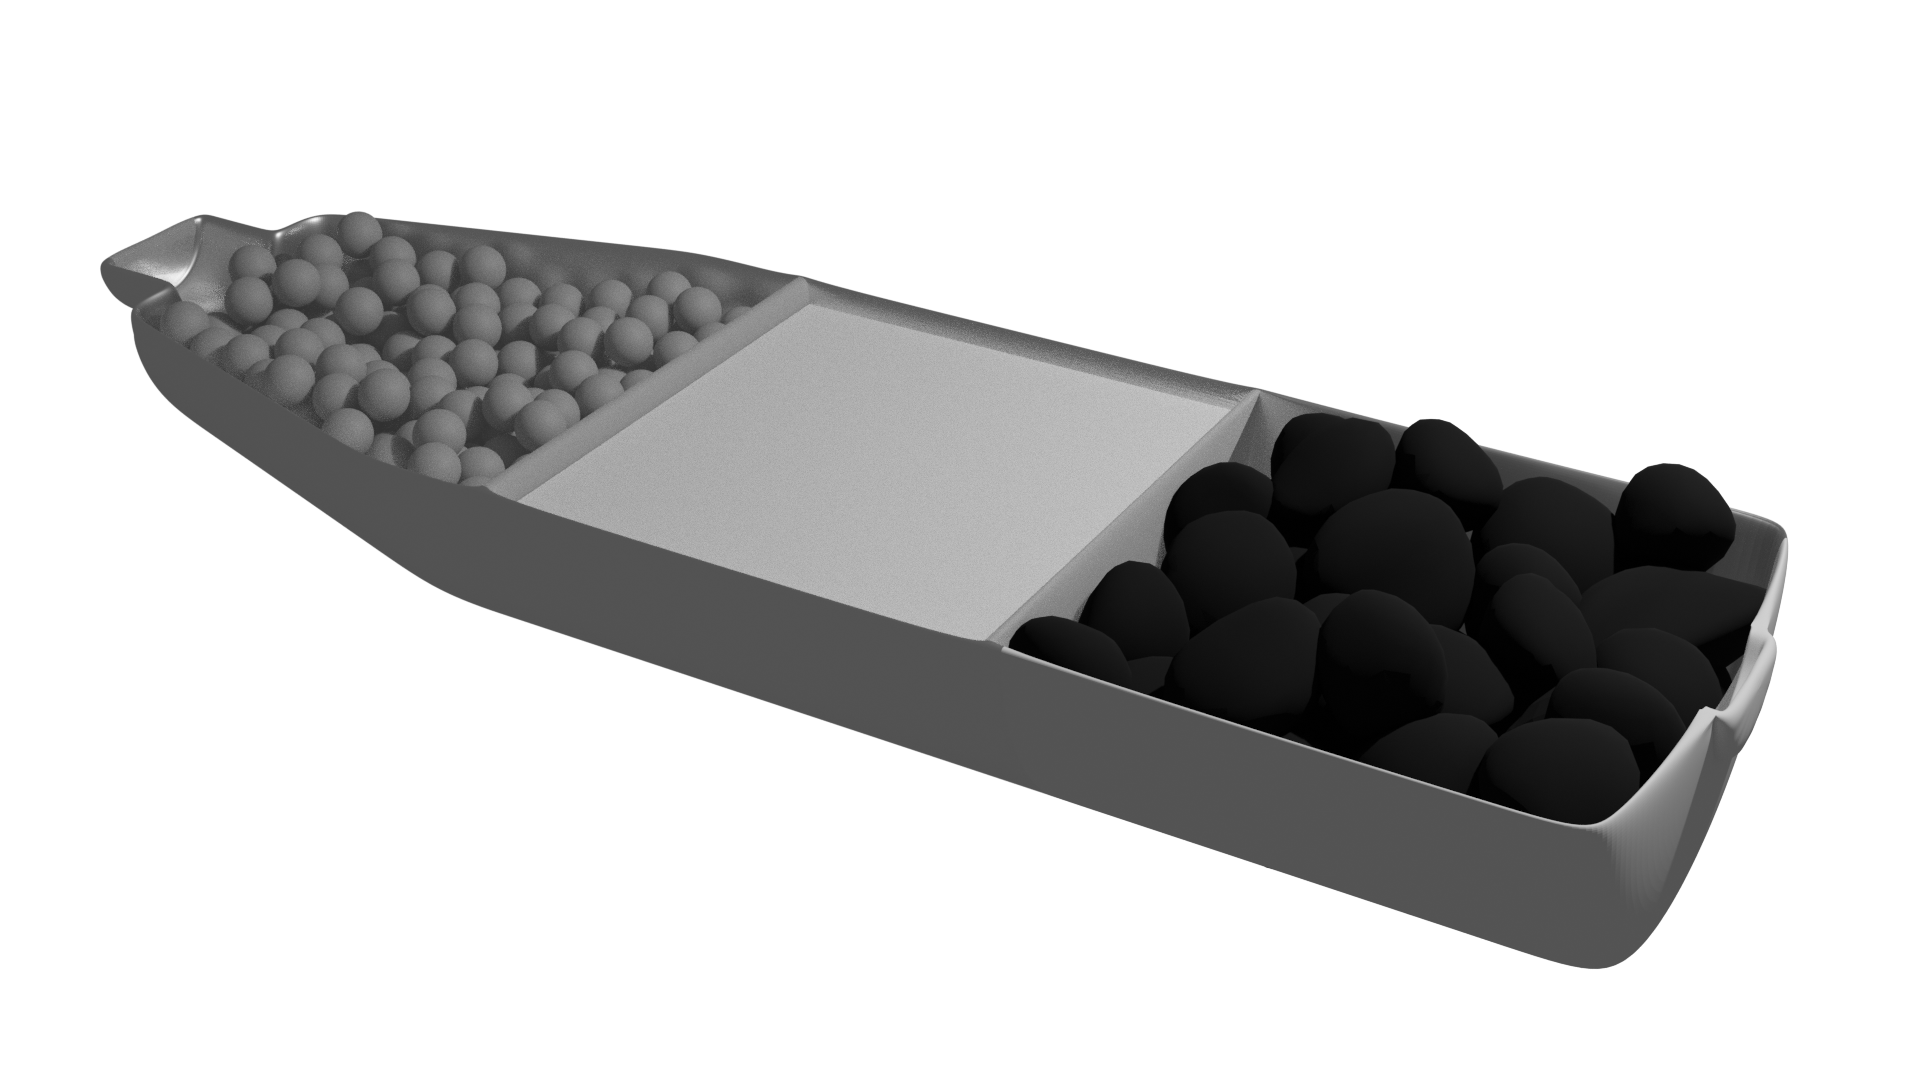
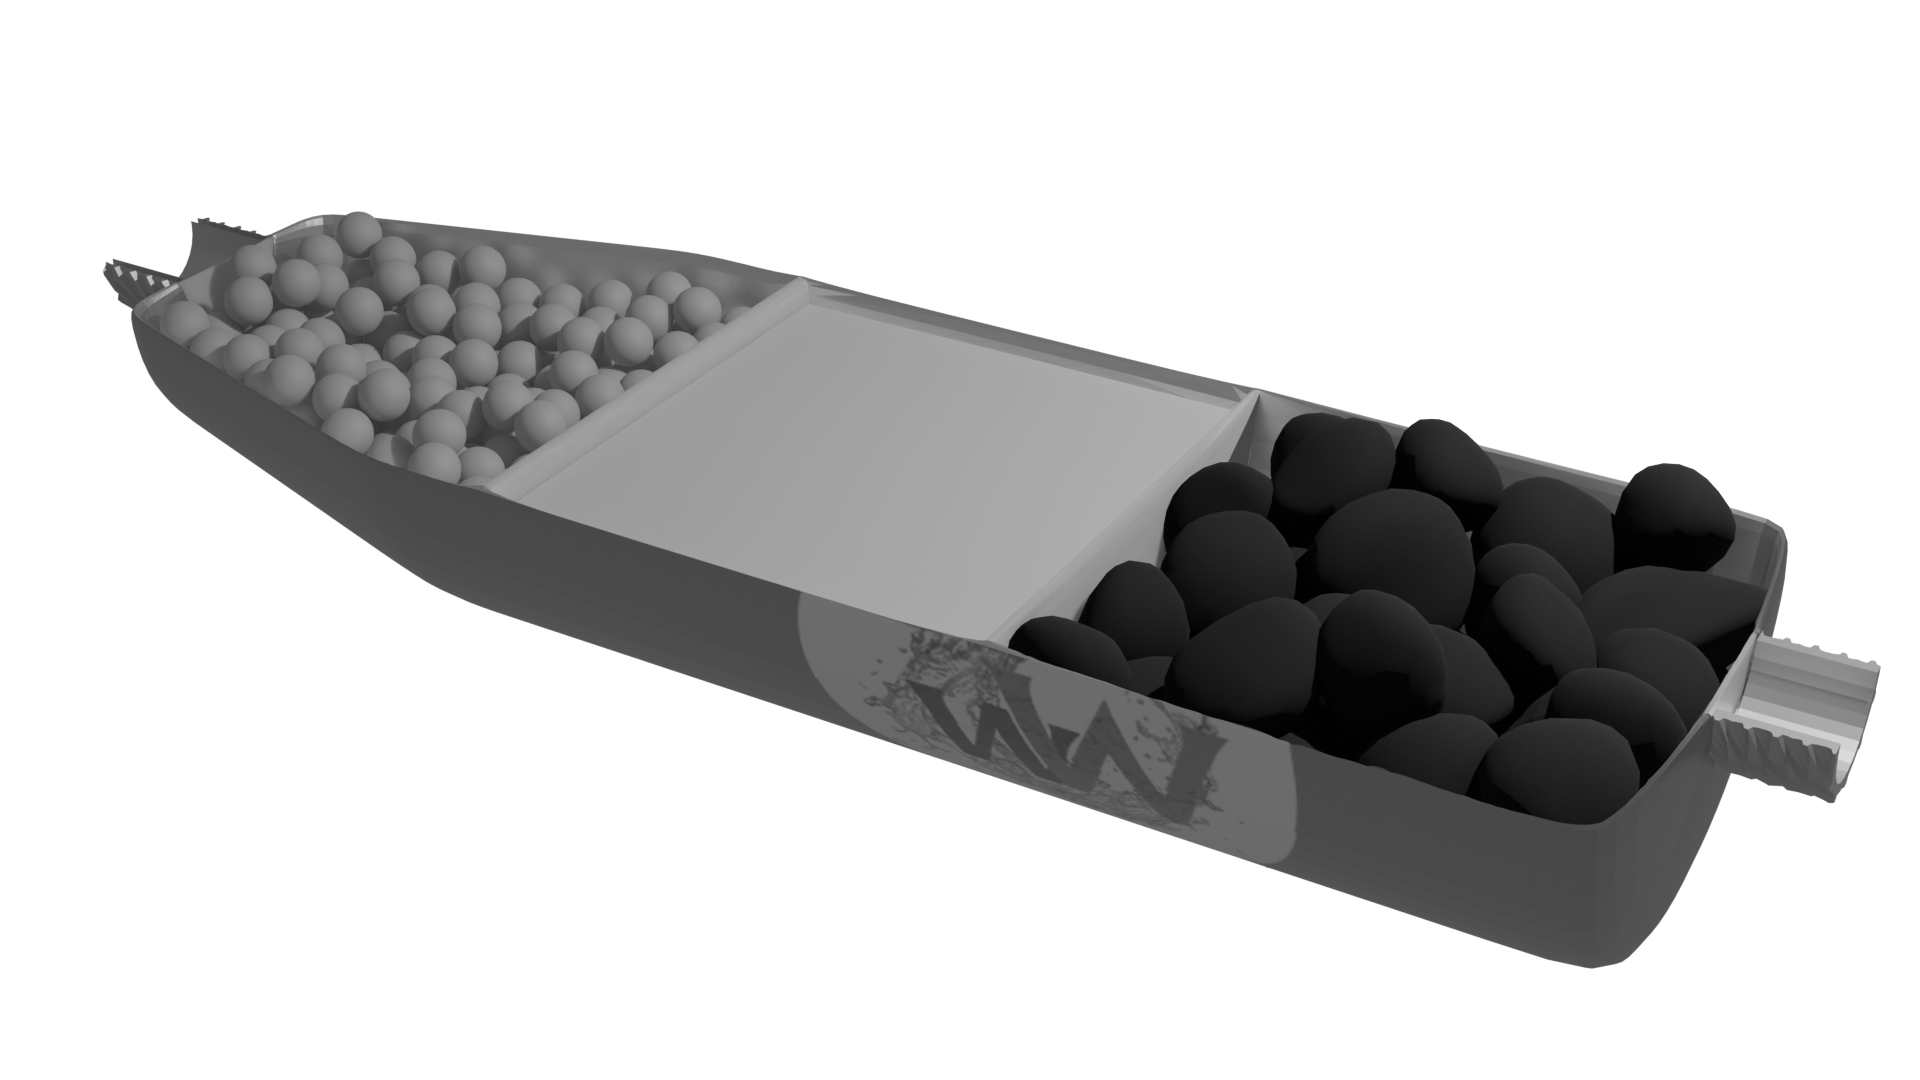
Add new prototype images

diff --git a/HTML/eng-prototype.html b/HTML/eng-prototype.html
@@ -155,7 +155,7 @@
 						ante vel consectetur pharetra</p>
 				</div>
 				<div class="prototype-content2-picture-container">
-					<img src="../Pictures/filter3.png" alt="">
+					<img src="../Pictures/filter.png" alt="">
 				</div>
 			</div>
 
